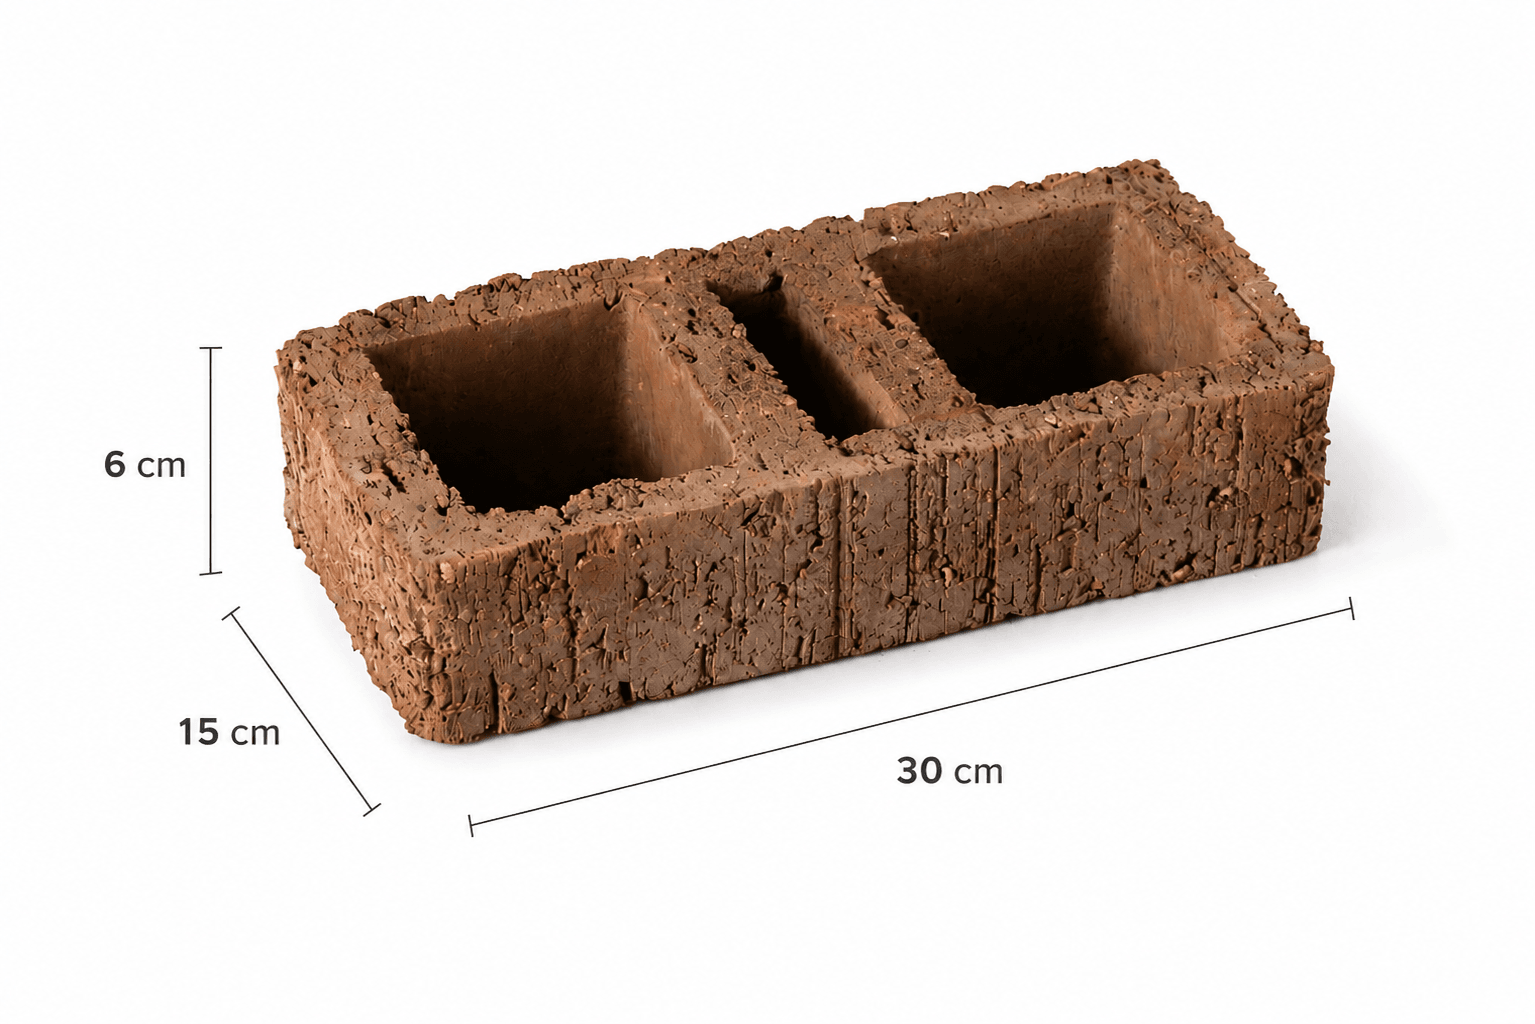
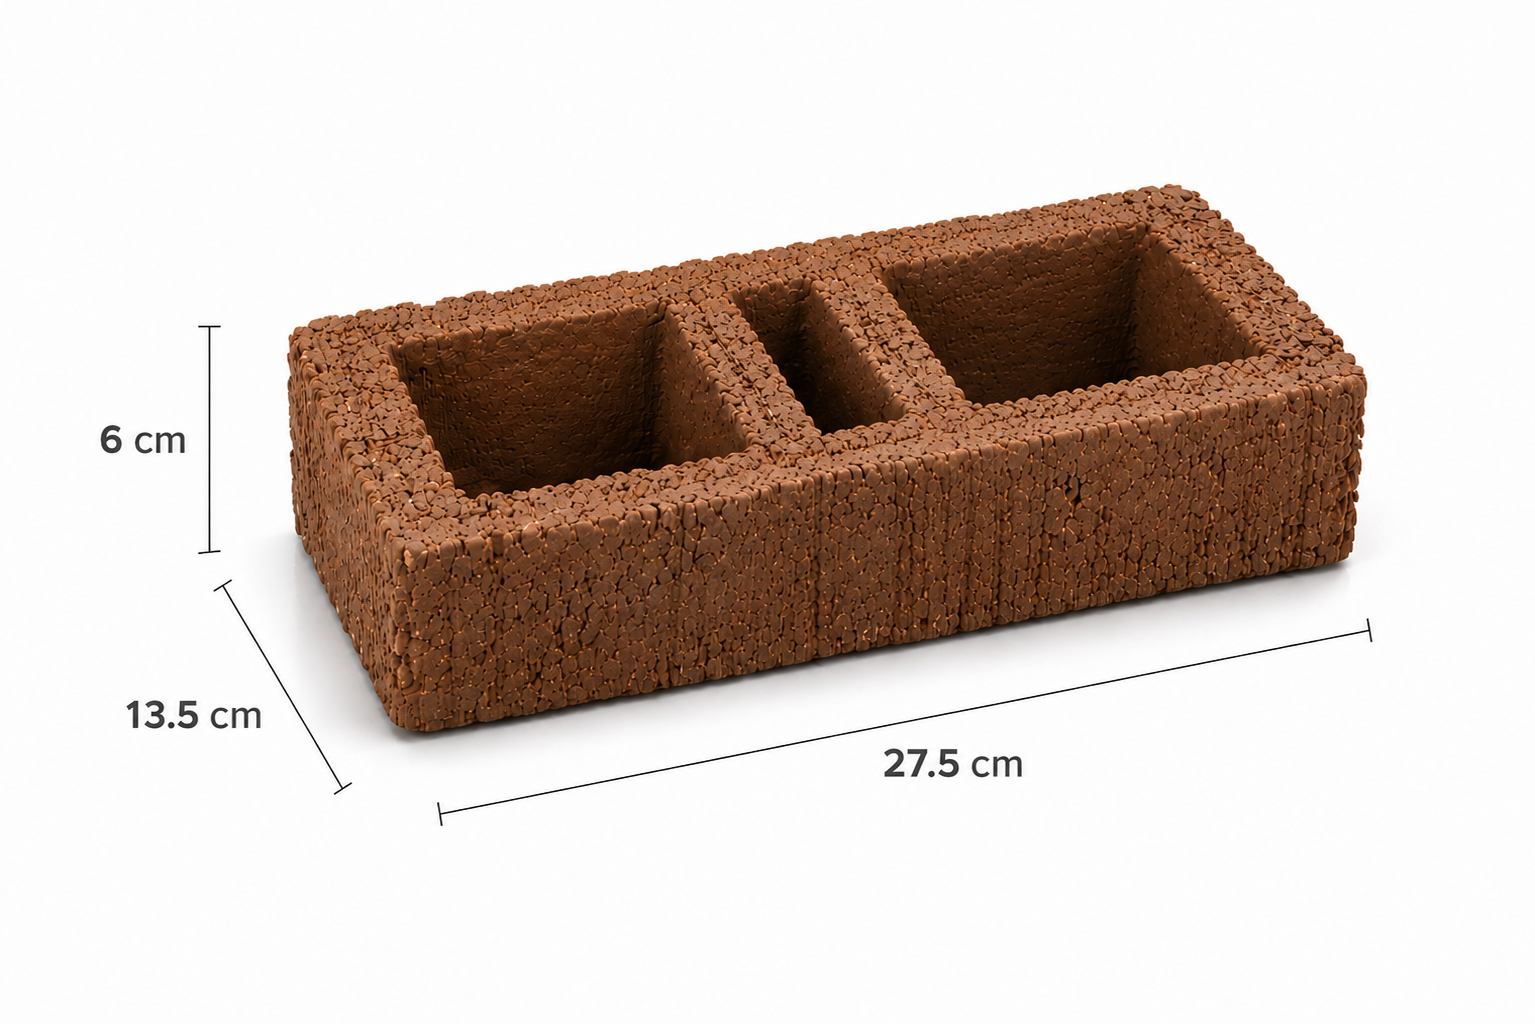
Refactor amplio del home y fichas de producto (12 cambios).
Home:
- Hero: quita el eyebrow "Starbucks · Plaza Envigado · Dos Santos · NTC 4205" y cambia el título a la tagline real de la marca "Convirtiendo piezas en sueños".
- Sección "Productos destacados" pasa a "Línea Romano / Nuestro ladrillo insignia": showcase con 3 tarjetas (Natural, Matizado claro, Matizado oscuro) que enlazan a /productos/romano?color={id}.
- Categorías ahora muestra los 5 ítems en una sola fila (grid 5 columnas) con tarjetas más compactas. Colapsa a 2 cols en tablet y 1 col en mobile como antes.

Productos:
- Napolitano: featured:false + nuevo flag hidden:true. Se oculta de listados (catálogo, destacados, relacionados, formulario de contacto, dropdown de /proyectos) pero su página sigue accesible para no romper enlaces externos.
- Toscano: variantes pasan de "arena/oscuro" a "natural/matizado claro/matizado oscuro" en productVariants.ts, products.ts (color e image) y variantGallery.ts (heroProductByVariant + patrón de dimensiones que ahora también reconoce "isometrico toscano"). Las nuevas fotos (toscano natural.png, toscano matizado oscuro.png, Toscano Ficha.png, isometrico toscano.png) ya están en disco. Falta toscano matizado claro.png.
- Romano: texture "Liso y corcho" → "Corcho"; dimensiones largo 30→27,5 cm, ancho 15→13,5 cm (alto 6 cm igual).
- Ficha de producto: dt en bold (font-weight 700) y dd en semibold (600) para que las specs salten más.
- Se elimina el link "Descargar ficha técnica (PDF)" debajo de "Ver cotización" en todas las fichas.
[…]

diff --git a/src/data/products.ts b/src/data/products.ts
@@ -29,6 +29,9 @@ export interface Product {
   color: string;
   texture: string;
   featured: boolean;
+  /** Si true, no aparece en listados (catálogo, destacados, relacionados, formulario, proyectos).
+   *  La página /productos/{slug} sigue accesible para no romper enlaces externos. */
+  hidden?: boolean;
   seoTitle: string;
   seoDescription: string;
   image: string;
@@ -59,13 +62,13 @@ export const products: Product[] = [
       "Proyectos minimalistas y contemporáneos",
       "Patios y zonas sociales con diseño atemporal",
     ],
-    color: "Arena, Oscuro",
+    color: "Natural, Matizado claro, Matizado oscuro",
     texture: "Texturizado",
     featured: true,
     seoTitle: "Ladrillo Toscano | Clay House Amagá",
     seoDescription:
       "Ladrillo Toscano para fachada e interiores. Tonos arena y oscuro. Clay House, Amagá.",
-    image: productFolderImage("toscano", "arena/Toscano Arena.png"),
+    image: productFolderImage("toscano", "natural/toscano natural.png"),
     pricePerUnit: "$ 2.250",
     priceUnitLabel: "unidad",
     dimensions: {
@@ -99,7 +102,8 @@ export const products: Product[] = [
     ],
     color: "Matizado, Natural",
     texture: "Texturizado",
-    featured: true,
+    featured: false,
+    hidden: true,
     seoTitle: "Ladrillo Napolitano | Clay House",
     seoDescription: "Ladrillo Napolitano para fachada. Clay House, Amagá.",
     image: productFolderImage("napolitano", "matizado/Napolitano Oscuro.png"),
@@ -135,7 +139,7 @@ export const products: Product[] = [
       "Cerramientos y muros de acento",
     ],
     color: "Matizado claro, Matizado oscuro, Natural",
-    texture: "Liso y corcho",
+    texture: "Corcho",
     featured: true,
     seoTitle: "Ladrillo Romano | Clay House Amagá",
     seoDescription: "Ladrillo Romano de fachada. Amagá, Colombia.",
@@ -143,8 +147,8 @@ export const products: Product[] = [
     pricePerUnit: "$ 2.450",
     priceUnitLabel: "unidad",
     dimensions: {
-      largo: "30 cm",
-      ancho: "15 cm",
+      largo: "27,5 cm",
+      ancho: "13,5 cm",
       alto: "6 cm",
       pesoAprox: "2,6 kg",
       rendimiento: "60 und/m²",
@@ -556,7 +560,12 @@ export function getProduct(slug: string): Product | undefined {
   return products.find((p) => p.slug === slug);
 }
 
+/** Productos visibles en listados (excluye los hidden:true). */
+export function getVisibleProducts(): Product[] {
+  return products.filter((p) => !p.hidden);
+}
+
 export function getFeaturedProducts(): Product[] {
-  return sortProductsByPriority(products.filter((p) => p.featured));
+  return sortProductsByPriority(products.filter((p) => p.featured && !p.hidden));
 }
 

diff --git a/src/data/clients.ts b/src/data/clients.ts
@@ -5,12 +5,22 @@ export interface BrandEntry {
   logo?: string;
 }
 
-/** Marcas y clientes comerciales */
+/** Marcas y clientes comerciales.
+ *  Agrega/cambia el logo soltando un archivo en /public/images/clientes/
+ *  con nombre = id de la entrada (kebab-case). Ver el README en esa carpeta. */
 export const brandClients: BrandEntry[] = [
+  { id: "gutierrez-group", name: "Gutiérrez Group" },
+  { id: "oblicuo", name: "Oblicuo" },
+  { id: "homecenter", name: "Homecenter" },
+  { id: "titan", name: "Titán" },
+  { id: "5-solidos", name: "5 Sólidos" },
+  { id: "torrealta", name: "Torrealta" },
+  { id: "pergamino", name: "Pergamino" },
+  { id: "mundo-verde", name: "Mundo Verde" },
+  { id: "velez", name: "Vélez" },
+  { id: "lenos-y-carbon", name: "Leños y Carbón" },
   { id: "starbucks", name: "Starbucks" },
   { id: "dos-santos", name: "Dos Santos" },
-  { id: "gress", name: "Gress" },
-  { id: "action-sport", name: "Action Sport Club" },
 ];
 
 /** Proyectos de obra y arquitectura */

diff --git a/src/utils/catalog.ts b/src/utils/catalog.ts
@@ -13,14 +13,14 @@ export function getCatalogCategoryDef(id: ProductCategory): CatalogCategoryDef |
 }
 
 export function filterProductsByCategory(id: ProductCategory): Product[] {
-  return sortProductsByPriority(products.filter((p) => p.category === id));
+  return sortProductsByPriority(products.filter((p) => p.category === id && !p.hidden));
 }
 
 export function groupProductsByCategory(): { def: CatalogCategoryDef; products: Product[] }[] {
   return catalogCategories
     .map((def) => ({
       def,
-      products: sortProductsByPriority(products.filter((p) => p.category === def.id)),
+      products: sortProductsByPriority(products.filter((p) => p.category === def.id && !p.hidden)),
     }))
     .filter((g) => g.products.length > 0);
 }

diff --git a/src/data/productVariants.ts b/src/data/productVariants.ts
@@ -78,8 +78,19 @@ const romanoInspiration = buildProjectsInspirationGallery(
 );
 
 const toscanoVariants: ProductColorVariant[] = [
-  { id: "arena", label: "Arena", colorLabel: "Arena", folder: "arena" },
-  { id: "oscuro", label: "Oscuro", colorLabel: "Oscuro", folder: "oscuro" },
+  { id: "natural", label: "Natural", colorLabel: "Natural", folder: "natural" },
+  {
+    id: "matizado-claro",
+    label: "Matizado claro",
+    colorLabel: "Matizado claro",
+    folder: "matizado claro",
+  },
+  {
+    id: "matizado-oscuro",
+    label: "Matizado oscuro",
+    colorLabel: "Matizado oscuro",
+    folder: "matizado oscuro",
+  },
 ];
 
 const toscanoGalleries = getSplitVariantGalleryMap("toscano", toscanoVariants, "Ladrillo Toscano");

diff --git a/src/utils/variantGallery.ts b/src/utils/variantGallery.ts
@@ -37,11 +37,12 @@ const GALLERY_CONFIG: Record<string, ProductGalleryConfig> = {
   },
   toscano: {
     heroProductByVariant: {
-      arena: "Toscano Arena.png",
-      oscuro: "Toscano Oscuro.png",
+      natural: "toscano natural.png",
+      "matizado claro": "toscano matizado claro.png",
+      "matizado oscuro": "toscano matizado oscuro.png",
     },
-    sharedRootPattern: /^toscano (dimensiones|ficha)/i,
-    dimensionesPattern: /toscano dimensiones/i,
+    sharedRootPattern: /^(toscano |isometrico toscano)/i,
+    dimensionesPattern: /isometrico toscano|toscano dimensiones/i,
     fichaPattern: /toscano ficha/i,
     productFilePattern: /^toscano /i,
   },

diff --git a/src/data/productMeta.ts b/src/data/productMeta.ts
@@ -47,7 +47,7 @@ export function getNotRecommended(product: Product): string[] {
 
 export function getRelatedProducts(product: Product, limit = 3): Product[] {
   const sameCategory = products.filter(
-    (p) => p.slug !== product.slug && p.category === product.category
+    (p) => p.slug !== product.slug && p.category === product.category && !p.hidden
   );
   return sortProductsByPriority(sameCategory).slice(0, limit);
 }

diff --git a/public/images/clientes/README.md b/public/images/clientes/README.md
@@ -1,9 +1,44 @@
-# Logos de clientes
+# Logos de clientes — `public/images/clientes/`
 
-Coloque aquí los archivos de marca (SVG o PNG con fondo transparente, ~200–400 px de ancho).
+Aquí van los logos que aparecen en la franja **"Clientes y proyectos"** del home.
 
-En `src/data/clients.ts` (`brandClients` o `projectPartners`) asigne la ruta con `assetUrl`:
+## Cómo subir un logo nuevo
 
-```ts
-{ id: "starbucks", name: "Starbucks", logo: assetUrl("/images/clientes/starbucks.svg") },
-```
+1. Suelta el archivo aquí con un nombre **kebab-case** que coincida con el `id` del cliente en [`src/data/clients.ts`](../../../src/data/clients.ts).
+   - Ejemplos: `gutierrez-group.svg`, `homecenter.png`, `titan.svg`, `starbucks.svg`.
+2. Después de subirlo, abre `src/data/clients.ts` y agrega/edita la entrada:
+
+   ```ts
+   { id: "gutierrez-group", name: "Gutiérrez Group", logo: "/images/clientes/gutierrez-group.svg" },
+   ```
+
+   - Sin la propiedad `logo` se muestra el nombre como wordmark (texto).
+   - Con `logo` se muestra la imagen.
+
+## Especificaciones recomendadas
+
+| Formato | Cuándo |
+|---|---|
+| **SVG** | Lo ideal — escala perfecto y pesa muy poco. |
+| **PNG con fondo transparente** | Si no tienes SVG. Mínimo 200×80 px. |
+| **JPG** | Solo si no hay opción mejor. Asegúrate de que el fondo coincida con la franja. |
+
+- **Alto recomendado**: ~80 px (la franja escala a alturas similares).
+- **Color**: idealmente monocromo oscuro o el color corporativo del cliente.
+- **Peso**: <50 KB por logo. Comprime PNGs en [TinyPNG](https://tinypng.com).
+
+## Clientes pendientes de subir logo
+
+Por ahora aparecen como wordmark (texto). Cuando subas el archivo, automáticamente reemplaza el texto por la imagen:
+
+- Gutierrez Group
+- Oblicuo
+- Homecenter
+- Titán
+- 5 Sólidos
+- Torrealta
+- Pergamino
+- Mundo Verde
+- Vélez
+- Leños y Carbón
+- Starbucks

diff --git a/public/images/home/redescubre/README.md b/public/images/home/redescubre/README.md
@@ -1,0 +1,30 @@
+# Imágenes del bloque "Redescubre el ladrillo"
+
+Esta carpeta contiene las fotos que rotan en el bloque chocolate de la home:
+
+> "Redescubre el ladrillo — Enchapes y fachadas que elevan espacios comerciales y residenciales..."
+
+## Cómo agregar / cambiar imágenes
+
+1. Suelta las fotos aquí (mínimo 4, idealmente JPG/PNG ~1200×900 px).
+2. Edita `src/pages/index.astro` en el bloque `const featuredProjects = [...]` para
+   apuntar a los nuevos archivos. Cada slide acepta: `src`, `alt` y `label`.
+
+## Formato y peso recomendado
+
+| Aspect ratio | Mínimo | Peso ideal |
+|---|---|---|
+| 4:3 o 3:2 (apaisado) | 1200×900 px | <500 KB cada una |
+
+- Comprime imágenes pesadas con `node scripts/optimize-images.mjs` después de subirlas.
+- Si quieres más de 4 slides, basta con añadir entradas al array `featuredProjects`.
+
+## Ejemplo de entrada en `featuredProjects`
+
+```ts
+{
+  src: assetUrl("/images/home/redescubre/mi-obra.jpg"),
+  alt: "Descripción accesible de la imagen",
+  label: "Nombre que aparece debajo",
+},
+```
